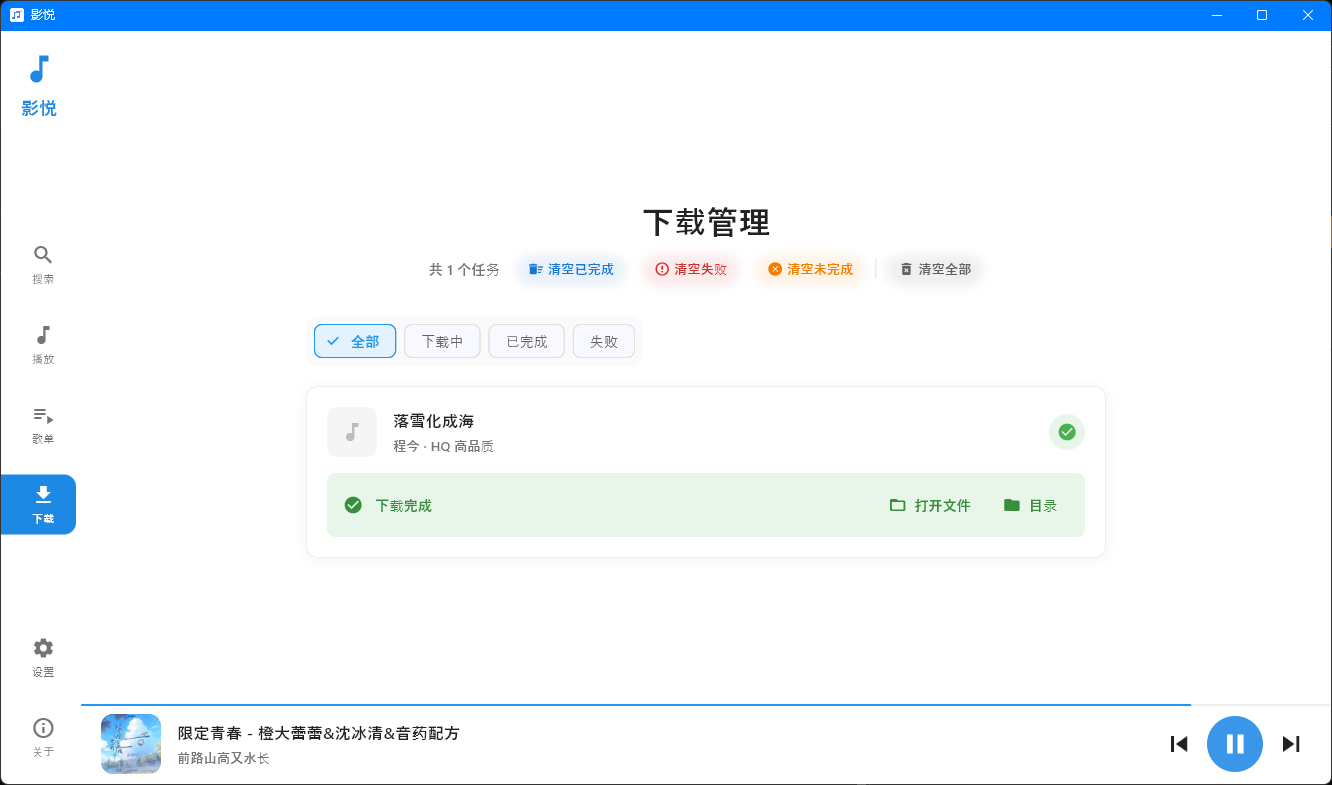
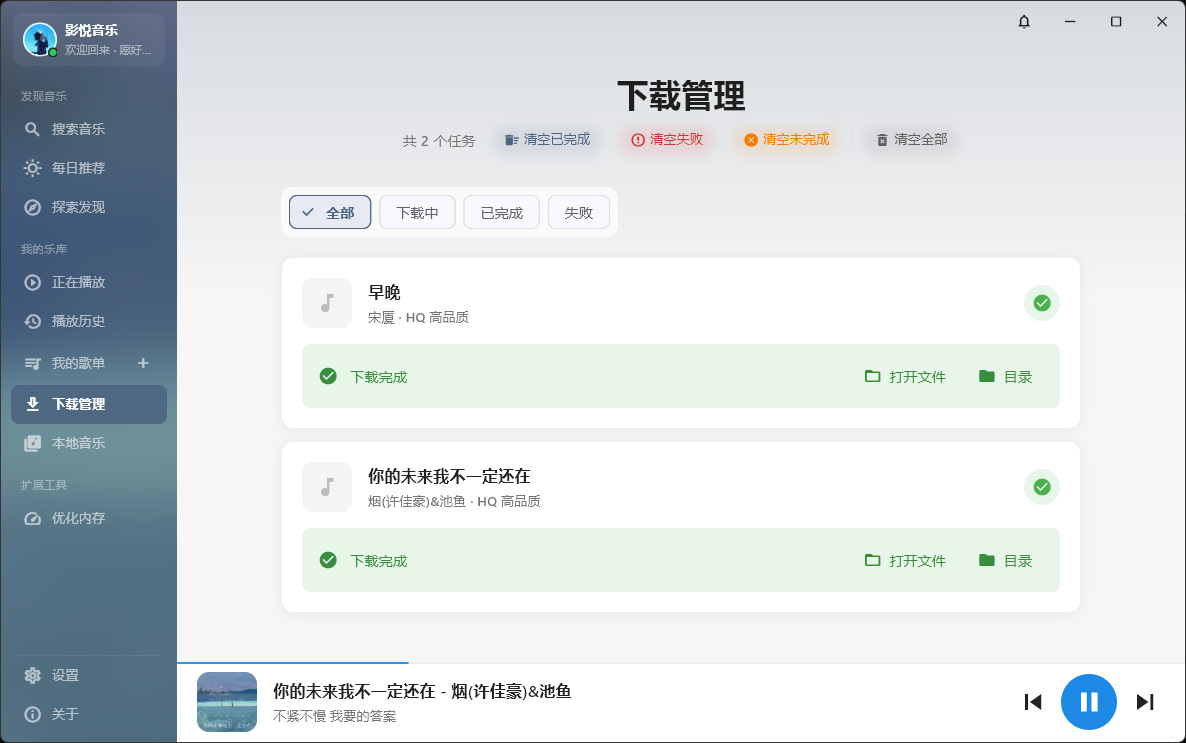
update README.md.

diff --git a/README.md b/README.md
@@ -86,26 +86,24 @@
 1. 在搜索框中输入关键词
 2. 点击搜索按钮、按回车键或点击弹出的搜索建议
 3. 在搜索结果中点击歌曲进行播放
-![搜索历史、热搜](image2.png)
-![搜索功能](image.png)
+![搜索历史、热搜](image2.png.png)
+![搜索功能](image.png.png)
 
 ### 播放音乐
 
 1. 在搜索结果或歌单中点击歌曲
 2. 歌曲会在底部播放器中开始播放
-3. 可以使用底部播放器控制播放、暂停、上一曲、下一曲、音量、试听音质、添加到歌单
-4、播放页UI随着图片的颜色自动变化
-![播放页](image3.png)
+3. 可以使用播放器控制播放、暂停、上一曲、下一曲、音量、试听音质、添加到歌单、使用音效
+4、播放页UI随着图片的颜色自动变化来作为主题色
+![播放页](image3.png.png)
 
 ### 悬浮窗桌面歌词
-![悬浮歌词设置](lyr1.png)
-![桌面歌词窗口](lyr2.png)
+![悬浮歌词](lyr.png)
 
 ### MV
 1、多种清晰度选择
 2、复制直链
-![mv1](mv.png)
-
+![mv](mv.png)
 
 ### 下载音乐
 
@@ -115,6 +113,16 @@
 4. 下载完成后，可以在"下载管理"页面查看
 ![自选下载音质](image4.png)
 ![下载管理](image5.png)
+
+### 探索发现
+
+1. 歌单
+![歌单列表](gd.png)
+2. 排行榜（包含官方、特色、场景、语言、全球）
+![排行榜](phb.png)
+3. 歌手（进入详情页有歌手信息、歌曲、mv）
+![歌手](gs.png)
+![歌手详情页](xqy.png)
 
 ### 歌单管理
 
@@ -131,8 +139,9 @@
 1. 支持修改下载路径
 2. 支持试听音质修改
 3. 可随时清理缓存（试听歌曲会占用存储空间，清理发现还剩下几十MB？这是正常的，因为有文件正在被占用，不必理会）
-![设置](set1.png)
-![设置](set2.png)
+![设置](set.png)
+4. 扩展功能（内存优化，只是快捷清理图片等缓存）
+![内存优化](ncyh.png)
 
 ## 联系方式
 
